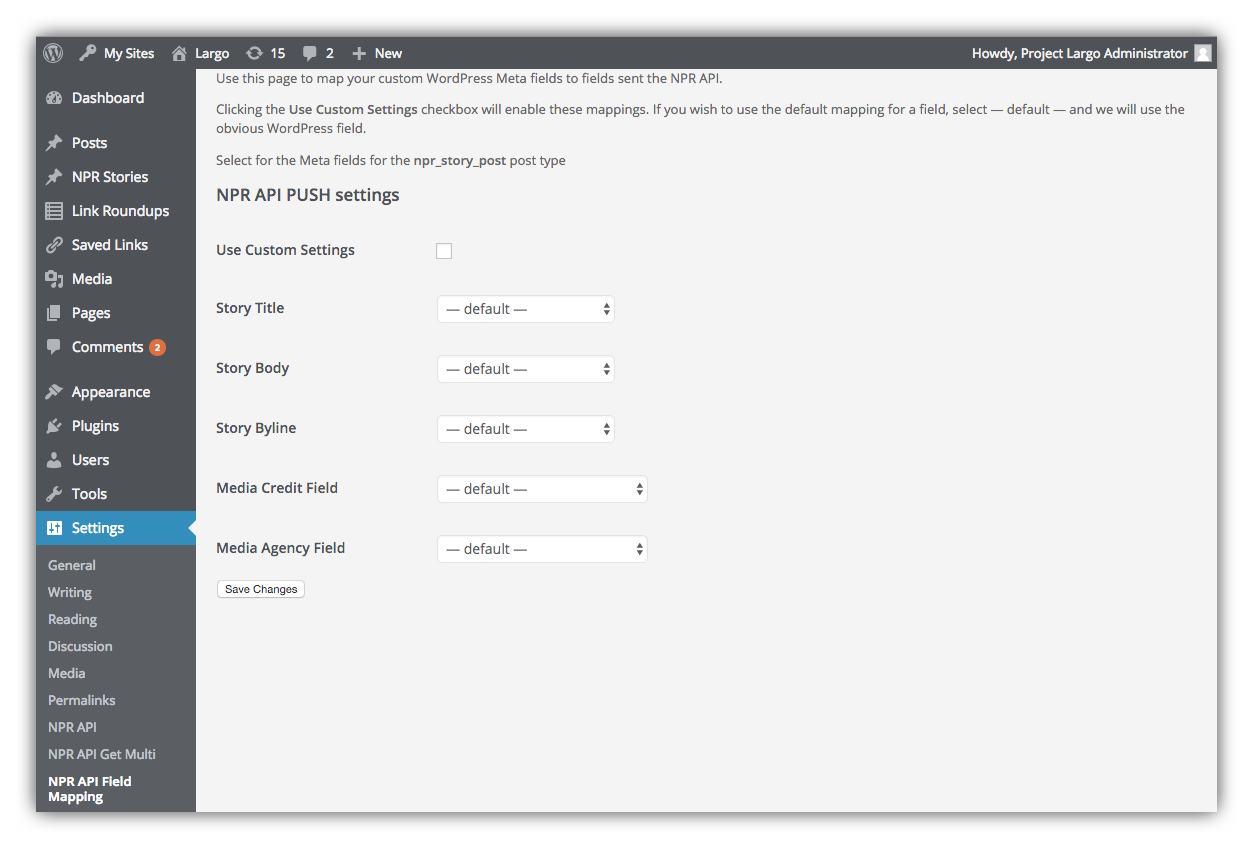
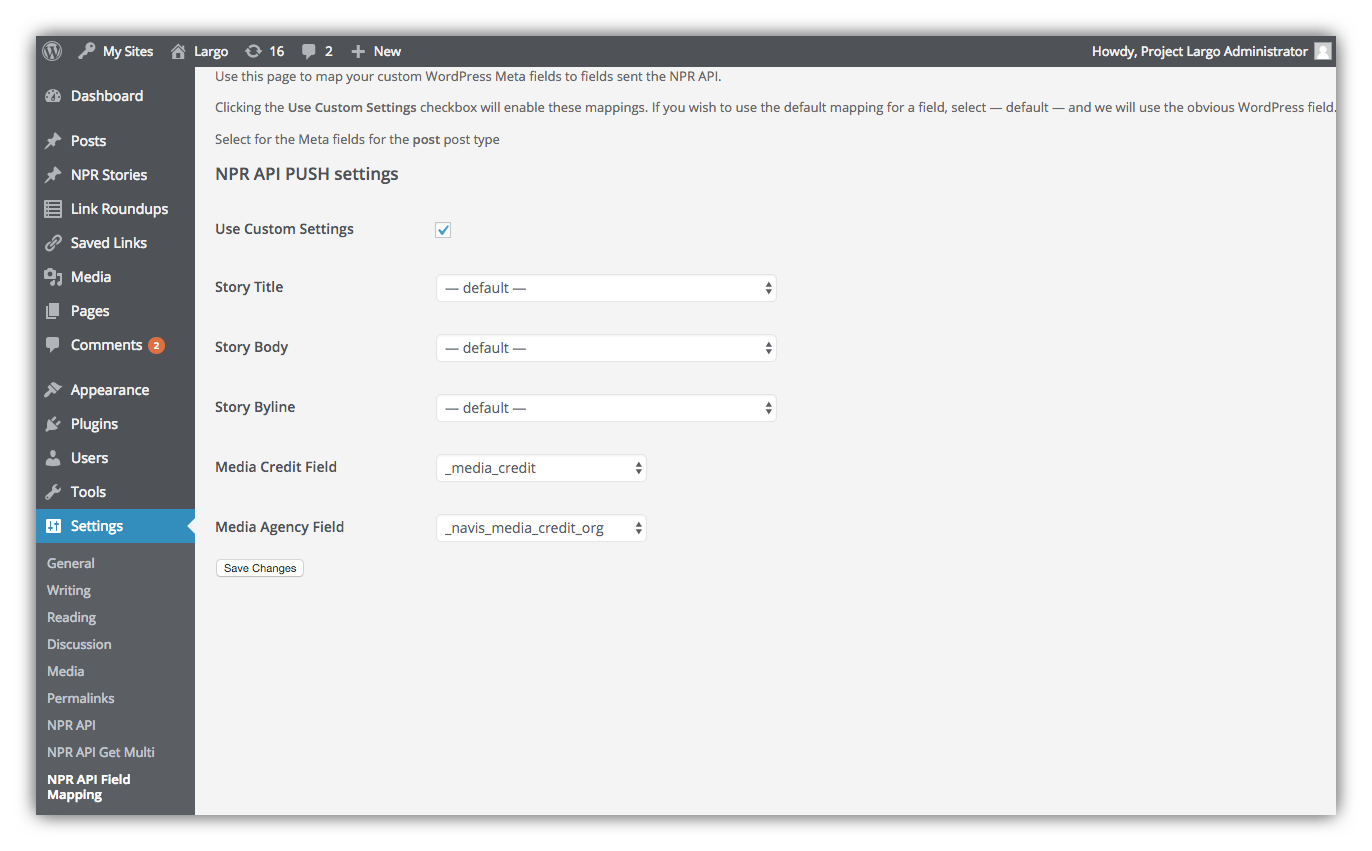
add field-mapping page

diff --git a/docs/field-mapping.md b/docs/field-mapping.md
@@ -1,0 +1,9 @@
+# NPR API Field Mapping
+
+In most cases your posts will successfully push to the NPR API using the standard WordPress fields including the post title and body. If your WordPress site has post types that use custom fields, you can map those fields to the NPR Story API using the settings in **Settings > NPR API Field Mapping**. 
+
+Select your custom fields to map them to the NPR API labels: 
+
+![NPR API push settings for custom fields](/assets/npr-api-wp-plugin-field-mappingpng)
+
+Don't forget to click **Save Changes**!
